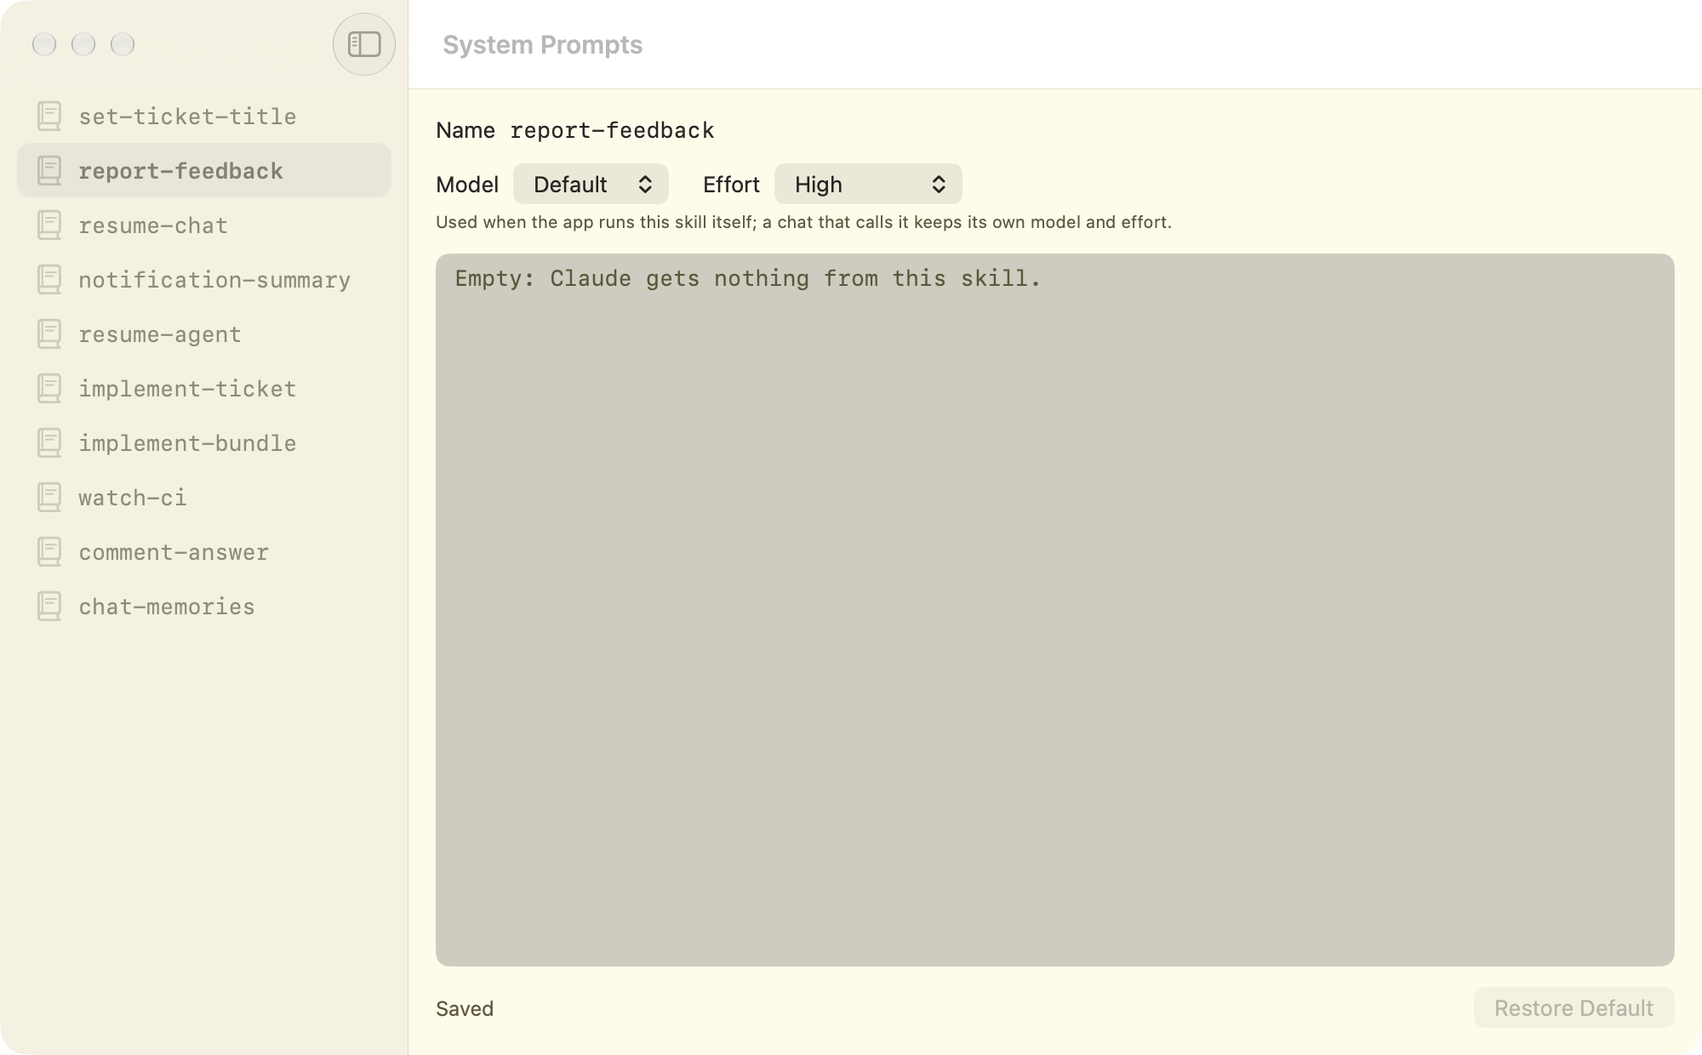
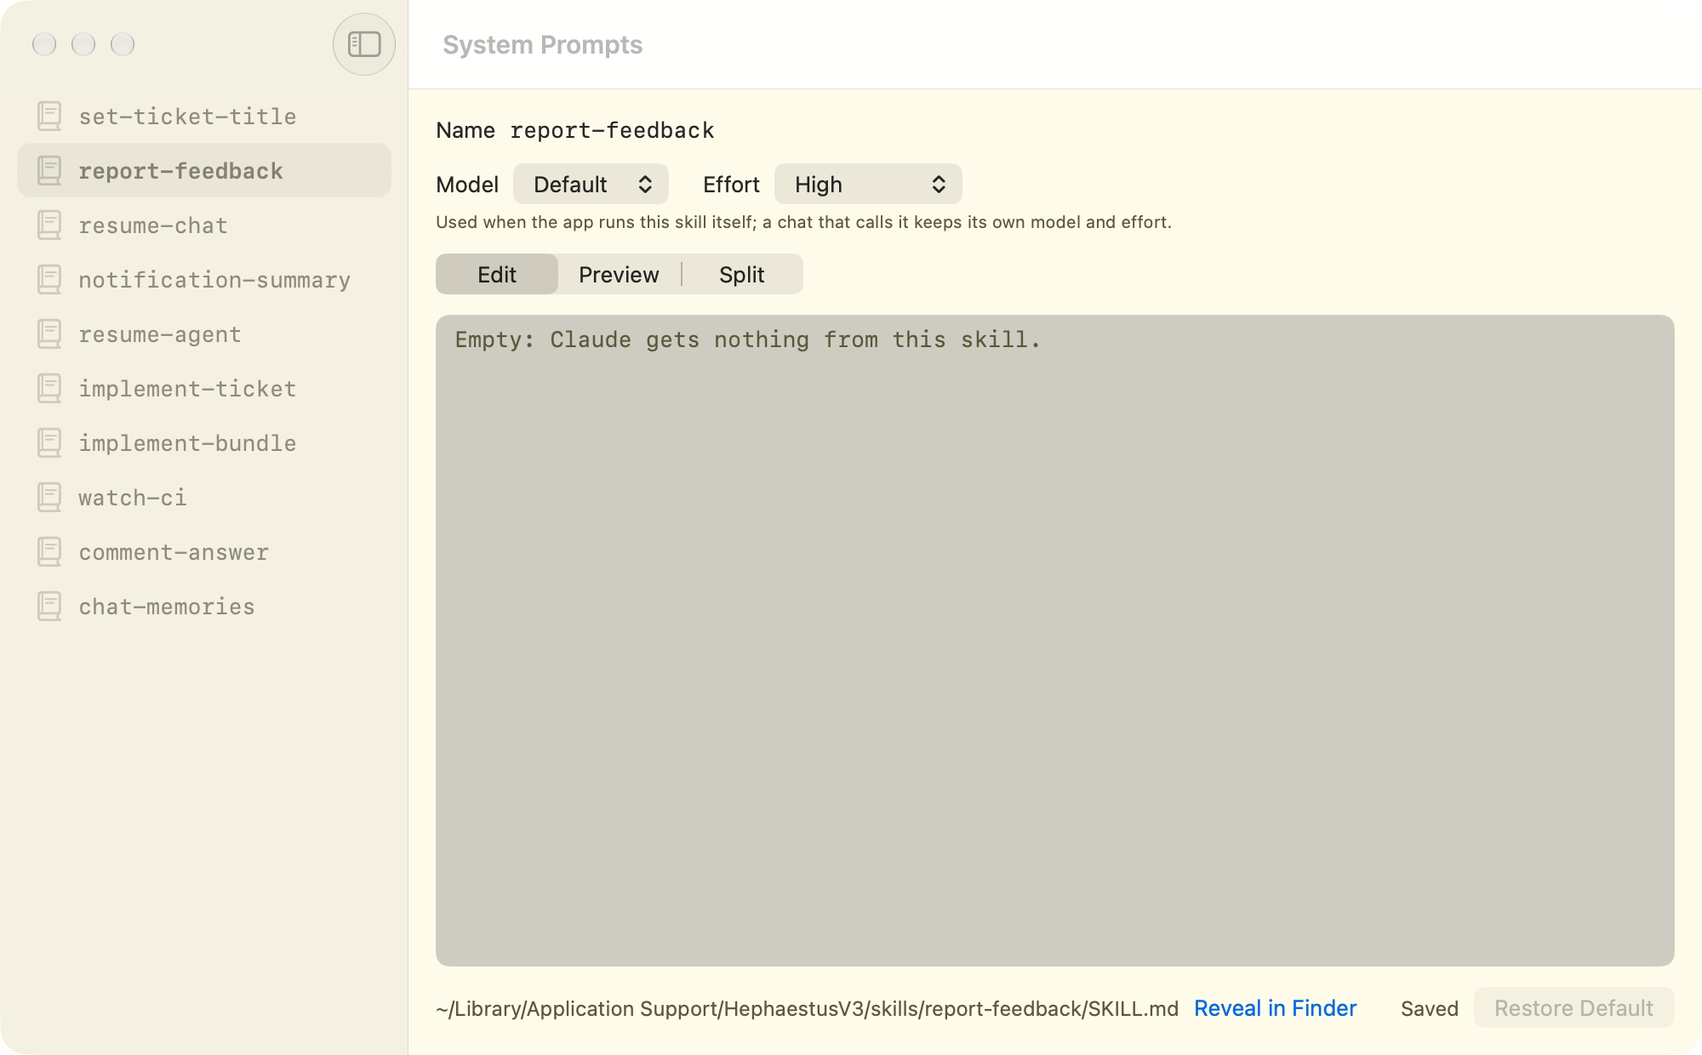
System Prompts shows a skill in Edit, Preview or Split, with its file and other front matter, as V2's editor
The content gets V2's three modes, the SKILL.md path with Reveal in
Finder under it, and the file's other front matter lines, read-only.
Screenshots redone, with a new one in Split.

Changed region(s): [[0.248, 0.2145, 0.992, 0.3371], [0.248, 0.95, 0.806, 0.9806], [0.837, 0.95, 0.868, 0.9806]]

diff --git a/HephaestusV3Kit/Sources/ChatKit/SystemPromptsView.swift b/HephaestusV3Kit/Sources/ChatKit/SystemPromptsView.swift
@@ -1,9 +1,11 @@
+import AppKit
 import AZDesign
 import ChatData
 import FileStorage
 import Observation
 import ProjectData
 import SwiftUI
+import TextViews
 import ToolsFoundation
 
 /// Where System Prompts reads and writes the internal skills' values: the data folder in the app, memory in
@@ -12,6 +14,8 @@ import ToolsFoundation
 protocol InternalSkillStore: AnyObject {
     func values(of skill: InternalSkill) -> InternalSkillValues
     func save(_ values: InternalSkillValues, of skill: InternalSkill) throws(StorageError)
+    /// The skill's `SKILL.md`; nil without a data folder.
+    func file(of skill: InternalSkill) -> URL?
 }
 
 /// The internal skills of the app's data folder (docs/data.md › Internal skills).
@@ -26,6 +30,10 @@ public final class LiveInternalSkillStore: InternalSkillStore {
 
     func values(of skill: InternalSkill) -> InternalSkillValues {
         folder?.readSkill(skill) ?? skill.defaults
+    }
+
+    func file(of skill: InternalSkill) -> URL? {
+        folder?.skillFile(of: skill)
     }
 
     func save(_ values: InternalSkillValues, of skill: InternalSkill) throws(StorageError) {
@@ -65,6 +73,11 @@ final class SampleInternalSkillStore: InternalSkillStore {
         saved[skill.name] ?? skill.defaults
     }
 
+    /// Where the app's data folder keeps it by default.
+    func file(of skill: InternalSkill) -> URL? {
+        URL(fileURLWithPath: NSHomeDirectory()).appendingPathComponent("Library/Application Support/HephaestusV3/skills/\(skill.name)/SKILL.md")
+    }
+
     func save(_ values: InternalSkillValues, of skill: InternalSkill) throws(StorageError) {
         if let failure { throw failure }
         saved[skill.name] = values
@@ -90,6 +103,13 @@ final class SystemPromptsModel {
     @ObservationIgnored private var pending: [String: Task<Void, Never>] = [:]
     /// How long after the last keystroke a skill's content is saved.
     @ObservationIgnored let saveDelay: Duration
+    /// How the content shows, as V2's skill editor: Edit, Preview or Split; kept while the tab lives.
+    var bodyMode: SkillBodyMode = .edit
+
+    /// The skill's `SKILL.md`, for the footer.
+    func file(of skill: InternalSkill) -> URL? {
+        store.file(of: skill)
+    }
 
     init(skills: [InternalSkill] = InternalSkill.all, store: any InternalSkillStore, saveDelay: Duration = .seconds(1)) {
         self.skills = skills
@@ -180,6 +200,11 @@ final class SystemPromptsModel {
     }
 }
 
+/// How a skill's content shows.
+enum SkillBodyMode: Hashable, CaseIterable {
+    case edit, preview, split
+}
+
 /// What a tab keeps of System Prompts while another tab is in front: its model, so that the selected skill and
 /// what is typed are still there when the tab comes back, as V2's window kept them. The app's window makes one per tab.
 @MainActor
@@ -248,7 +273,10 @@ public struct SystemPromptsView: View {
                     isSaved: model.isSaved(skill),
                     failure: model.failures[skill.name],
                     isDefault: model.isDefault(skill),
-                    restoreDefaults: { model.restoreDefaults(of: skill) }
+                    restoreDefaults: { model.restoreDefaults(of: skill) },
+                    mode: $model.bodyMode,
+                    otherLines: model.values(of: skill).otherLines,
+                    file: model.file(of: skill)
                 )
                 .id(skill.id)
             } else {
@@ -289,6 +317,10 @@ private struct SkillEditor: View {
     let failure: String?
     let isDefault: Bool
     let restoreDefaults: () -> Void
+    @Binding var mode: SkillBodyMode
+    /// The file's other front matter lines, kept as written.
+    let otherLines: [String]
+    let file: URL?
     @State private var confirmsRestore = false
 
     var body: some View {
@@ -311,28 +343,66 @@ private struct SkillEditor: View {
                     .foregroundStyle(.textSecondary)
             }
 
-            TextEditor(text: $content)
-                .font(.body.monospaced())
-                .scrollContentBackground(.hidden)
-                .padding(6)
-                .background(.surfaceSunken, in: .rect(corners: .concentric(minimum: .fixed(8)), isUniform: true))
-                .overlay(alignment: .topLeading) {
-                    if content.isEmpty {
-                        Text("Empty: Claude gets nothing from this skill.", bundle: #bundle)
-                            .font(.body.monospaced())
-                            .foregroundStyle(.textSecondary)
-                            .padding(.horizontal, 11)
-                            .padding(.vertical, 6)
-                            .allowsHitTesting(false)
-                    }
-                }
-                .frame(maxWidth: .infinity, maxHeight: .infinity)
-                .accessibilityLabel(Text("Content", bundle: #bundle))
-                .accessibilityIdentifier("systemPrompts.content")
+            Picker(String(localized: "Mode", bundle: #bundle), selection: $mode) {
+                Text("Edit", bundle: #bundle).tag(SkillBodyMode.edit)
+                Text("Preview", bundle: #bundle).tag(SkillBodyMode.preview)
+                Text("Split", bundle: #bundle).tag(SkillBodyMode.split)
+            }
+            .pickerStyle(.segmented)
+            .labelsHidden()
+            .fixedSize()
+            .accessibilityIdentifier("systemPrompts.mode")
 
-            HStack(alignment: .firstTextBaseline) {
-                status
+            HStack(spacing: 12) {
+                if mode != .preview { editor }
+                if mode != .edit {
+                    ScrollView {
+                        MarkdownView(content)
+                            .frame(maxWidth: .infinity, alignment: .leading)
+                            .padding(8)
+                    }
+                    .background(.surface, in: .rect(corners: .concentric(minimum: .fixed(8)), isUniform: true))
+                    .accessibilityIdentifier("systemPrompts.preview")
+                }
+            }
+            .frame(maxWidth: .infinity, maxHeight: .infinity)
+
+            if !otherLines.isEmpty {
+                VStack(alignment: .leading, spacing: 4) {
+                    Text("Other Front Matter", bundle: #bundle)
+                        .font(.callout)
+                        .foregroundStyle(.textSecondary)
+                    Text(verbatim: otherLines.joined(separator: "\n"))
+                        .font(.callout.monospaced())
+                        .textSelection(.enabled)
+                        .frame(maxWidth: .infinity, alignment: .leading)
+                        .padding(8)
+                        .background(.surfaceSunken, in: .rect(cornerRadius: 6))
+                }
+                .accessibilityIdentifier("systemPrompts.otherFrontMatter")
+            }
+
+            HStack(alignment: .firstTextBaseline, spacing: 8) {
+                if let file {
+                    Text(verbatim: (file.path as NSString).abbreviatingWithTildeInPath)
+                        .font(.callout)
+                        .foregroundStyle(.textSecondary)
+                        .lineLimit(1)
+                        .truncationMode(.middle)
+                        .textSelection(.enabled)
+                        .accessibilityIdentifier("systemPrompts.path")
+                    Button(String(localized: "Reveal in Finder", bundle: #bundle)) {
+                        let exists = FileManager.default.fileExists(atPath: file.path)
+                        let shown = exists ? file : file.deletingLastPathComponent().deletingLastPathComponent()
+                        NSWorkspace.shared.activateFileViewerSelecting([shown])
+                    }
+                    .buttonStyle(.link)
+                    .help(String(localized: "Shows the skill's SKILL.md in the Finder; its folder until it is saved.", bundle: #bundle))
+                    .accessibilityIdentifier("systemPrompts.reveal")
+                }
                 Spacer()
+                status
+                    .layoutPriority(1)
                 Button(String(localized: "Restore Default", bundle: #bundle)) {
                     confirmsRestore = true
                 }
@@ -352,6 +422,28 @@ private struct SkillEditor: View {
         .padding()
         .frame(maxWidth: .infinity, maxHeight: .infinity, alignment: .topLeading)
         .background(.canvas)
+    }
+
+    /// The content as text, which the user edits.
+    private var editor: some View {
+            TextEditor(text: $content)
+                .font(.body.monospaced())
+                .scrollContentBackground(.hidden)
+                .padding(6)
+                .background(.surfaceSunken, in: .rect(corners: .concentric(minimum: .fixed(8)), isUniform: true))
+                .overlay(alignment: .topLeading) {
+                    if content.isEmpty {
+                        Text("Empty: Claude gets nothing from this skill.", bundle: #bundle)
+                            .font(.body.monospaced())
+                            .foregroundStyle(.textSecondary)
+                            .padding(.horizontal, 11)
+                            .padding(.vertical, 6)
+                            .allowsHitTesting(false)
+                    }
+                }
+                .frame(maxWidth: .infinity, maxHeight: .infinity)
+                .accessibilityLabel(Text("Content", bundle: #bundle))
+                .accessibilityIdentifier("systemPrompts.content")
     }
 
     @ViewBuilder private var status: some View {

diff --git a/docs/ui/system-prompts.md b/docs/ui/system-prompts.md
@@ -25,15 +25,22 @@ Its tab reads "System Prompts", with `text.book.closed`.
 
 A `NavigationSplitView`, inside the tab:
 
-| Part                     | Identifier                                    | Contents                                                                                                                                                                                                                                                                                                                                                                                                                                                                      |
-|--------------------------|-----------------------------------------------|-------------------------------------------------------------------------------------------------------------------------------------------------------------------------------------------------------------------------------------------------------------------------------------------------------------------------------------------------------------------------------------------------------------------------------------------------------------------------------|
-| **List**                 | `systemPrompts.list`                          | Every internal skill, in the code's order: `text.book.closed` and the name in the monospaced font (`systemPrompts.skill.<name>`). The first is selected when the tab opens; a tab that comes back to the front keeps the skill it had and what was typed, as V2's window did. 200 to 360 pt wide, 240 by default.                                                                                                                                                             |
-| **Name**                 | `systemPrompts.name`                          | "Name" and the selected skill's name, monospaced, selectable, not editable. Help: "The app defines this skill and its name."                                                                                                                                                                                                                                                                                                                                                  |
-| **Model** and **Effort** | `systemPrompts.model`, `systemPrompts.effort` | Settings ▸ Chat's pickers, side by side: the CLI's models (its fallback list until the CLI has answered), then the selected model's effort levels (none for a model without effort). They set the model and effort the app uses when it runs the skill itself; a chat that calls the skill keeps its own (the user's request). Under them, in `caption` and `textSecondary`: "Used when the app runs this skill itself; a chat that calls it keeps its own model and effort." |
-| **Content**              | `systemPrompts.content`                       | A `TextEditor` in the monospaced body font, on `surfaceSunken`, filling the rest. While empty: "Empty: Claude gets nothing from this skill." in `textSecondary`. Its VoiceOver label is "Content".                                                                                                                                                                                                                                                                            |
-| **Status**               | `systemPrompts.status`                        | Under the content, in `callout`: "Saved" or "Editing…" in `textSecondary`; after a failed save, `exclamationmark.triangle.fill` and "Not saved: <reason>" in `danger`.                                                                                                                                                                                                                                                                                                        |
-| **Restore Default**      | `systemPrompts.restoreDefault`                | On the status's line, at its end: a button, dimmed while the content, model and effort are the skill's defaults. It asks first, "Restore the default content, model and effort of <name>?", "What you wrote in this skill is replaced by the app's own text.", **Restore Default** (destructive) and Cancel. Help: "Gives this skill the app's content, model and effort back."                                                                                               |
-| **Nothing selected**     | `systemPrompts.nothing`                       | "No Skill Selected", "Select an internal skill to edit its content."                                                                                                                                                                                                                                                                                                                                                                                                          |
+![System Prompts with chat-memories in Split: its content as text beside it as Markdown, and its SKILL.md's path with Reveal in Finder](images/system-prompts-split.png)
+*`chat-memories` in Split, the path of its `SKILL.md` under it.*
+
+
+| Part                     | Identifier                                       | Contents                                                                                                                                                                                                                                                                                                                                                                                                                                                                      |
+|--------------------------|--------------------------------------------------|-------------------------------------------------------------------------------------------------------------------------------------------------------------------------------------------------------------------------------------------------------------------------------------------------------------------------------------------------------------------------------------------------------------------------------------------------------------------------------|
+| **List**                 | `systemPrompts.list`                             | Every internal skill, in the code's order: `text.book.closed` and the name in the monospaced font (`systemPrompts.skill.<name>`). The first is selected when the tab opens; a tab that comes back to the front keeps the skill it had and what was typed, as V2's window did. 200 to 360 pt wide, 240 by default.                                                                                                                                                             |
+| **Name**                 | `systemPrompts.name`                             | "Name" and the selected skill's name, monospaced, selectable, not editable. Help: "The app defines this skill and its name."                                                                                                                                                                                                                                                                                                                                                  |
+| **Model** and **Effort** | `systemPrompts.model`, `systemPrompts.effort`    | Settings ▸ Chat's pickers, side by side: the CLI's models (its fallback list until the CLI has answered), then the selected model's effort levels (none for a model without effort). They set the model and effort the app uses when it runs the skill itself; a chat that calls the skill keeps its own (the user's request). Under them, in `caption` and `textSecondary`: "Used when the app runs this skill itself; a chat that calls it keeps its own model and effort." |
+| **Mode**                 | `systemPrompts.mode`                             | V2's skill editor modes, a segmented picker above the content: **Edit**, **Preview**, **Split**. It starts in Edit (V2 started in Preview; here the content is what the page is for) and stays as chosen while the tab lives.                                                                                                                                                                                                                                                 |
+| **Content**              | `systemPrompts.content`, `systemPrompts.preview` | Edit: a `TextEditor` in the monospaced body font, on `surfaceSunken`, filling the rest. While empty: "Empty: Claude gets nothing from this skill." in `textSecondary`. Its VoiceOver label is "Content". Preview: the content as Markdown, as a ticket's description draws it, on `surface`. Split: both side by side.                                                                                                                                                        |
+| **Other Front Matter**   | `systemPrompts.otherFrontMatter`                 | When the file has front matter lines besides `name`, `model` and `effort`: "Other Front Matter" and the lines as written, monospaced, read-only, as V2 showed them.                                                                                                                                                                                                                                                                                                           |
+| **Path**                 | `systemPrompts.path`, `systemPrompts.reveal`     | Under the content: the skill's `SKILL.md`, the home folder written `~`, cut in the middle, and **Reveal in Finder**, which selects the file, or its `skills/` folder until it is saved (V2's footer).                                                                                                                                                                                                                                                                         |
+| **Status**               | `systemPrompts.status`                           | After the path, in `callout`: "Saved" or "Editing…" in `textSecondary`; after a failed save, `exclamationmark.triangle.fill` and "Not saved: <reason>" in `danger`.                                                                                                                                                                                                                                                                                                           |
+| **Restore Default**      | `systemPrompts.restoreDefault`                   | Last on the path's line: a button, dimmed while the content, model and effort are the skill's defaults. It asks first, "Restore the default content, model and effort of <name>?", "What you wrote in this skill is replaced by the app's own text.", **Restore Default** (destructive) and Cancel. Help: "Gives this skill the app's content, model and effort back."                                                                                                        |
+| **Nothing selected**     | `systemPrompts.nothing`                          | "No Skill Selected", "Select an internal skill to edit its content."                                                                                                                                                                                                                                                                                                                                                                                                          |
 
 The window's title is "System Prompts". In narrow windows the list folds behind the sidebar button, as every
 split view does.

diff --git a/docs/decisions.md b/docs/decisions.md
@@ -319,6 +319,7 @@ skills only, each with a name in Claude's skill format and a content, starting w
 | Does `set-ticket-title` have text of its own? | Yes, V3's own, as `notification-summary` and the implement skills: empty, untitled tickets got a title describing their state instead of their subject (HEPH-9). The user's text replaces it. | [UI › System Prompts › Internal skills](ui/system-prompts.md#internal-skills) |
 | How does a skill get its defaults back? | **Restore Default**, after a confirmation: a saved file replaces the defaults even when empty, so the page needs a way back (HEPH-9). | [UI › System Prompts › Saving](ui/system-prompts.md#saving) |
 | Which shortcut? | ⌥⌘,, beside Settings' ⌘, and Project Settings' ⇧⌘,. | [UI › System Prompts](ui/system-prompts.md) |
+| Does the editor have V2's modes, path and other front matter? | Yes (the user's request to bring over every V2 feature, 22 November 2026): Edit, Preview and Split, starting in Edit since the content is what the page is for; the `SKILL.md` path with Reveal in Finder; the other front matter lines, read-only. V2's Save, Revert and extra files stay out: V3 saves by itself and its internal skills have no files. | [UI › System Prompts › Anatomy](ui/system-prompts.md#anatomy) |
 | Which code owns it? | ChatData (the skills and their files) and ChatKit (the view), since the skills are what Claude is told. | [Architecture › ChatKit](architecture.md#chatkit) |
 
 ## Implement
